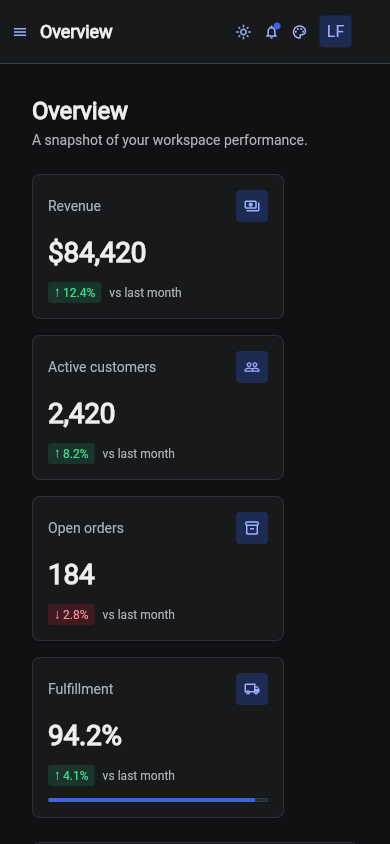
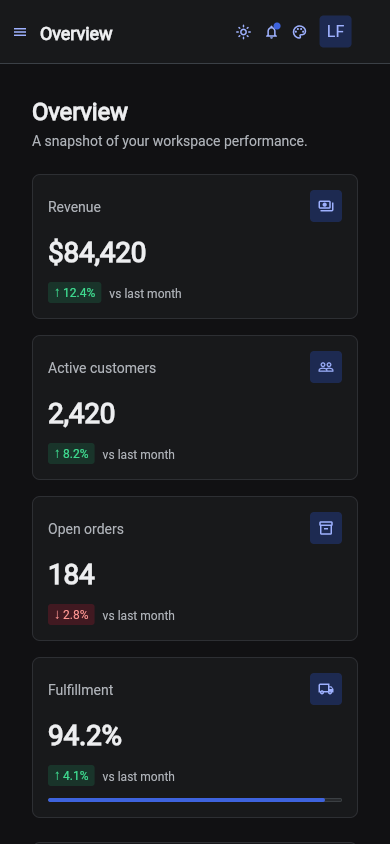
refactor(dashboard): correct the publish tag contract and drop unused indirection (#160)

diff --git a/apps/dashboard/lib/widgets/dashboard_chart_card.dart b/apps/dashboard/lib/widgets/dashboard_chart_card.dart
@@ -6,9 +6,9 @@ import 'page_header.dart';
 
 /// Dashboard surface shared by overview and gallery charts.
 ///
-/// Mix charts have no intrinsic height, so the plot is given a finite
-/// [plotHeight]. Auto Grid rows then size to the card (title + plot +
-/// optional legend) instead of a padded-card magic number.
+/// Mix charts have no intrinsic height, so the plot is given a finite one.
+/// Auto Grid rows then size to the card (title + plot + optional legend)
+/// instead of a padded-card magic number.
 class DashboardChartCard extends StatelessWidget {
   const DashboardChartCard({
     super.key,
@@ -18,8 +18,12 @@ class DashboardChartCard extends StatelessWidget {
     this.legend,
     this.chartPadding,
     this.chartPaddingKey,
-    this.plotHeight = 220,
   });
+
+  /// Logical plot height, scaled by the live Fortal scaling factor. A constant
+  /// rather than a parameter: every call site wants the same plot height, and
+  /// a per-card override would let rows in one Grid disagree.
+  static const _plotHeight = 220.0;
 
   final String title;
   final String description;
@@ -28,14 +32,11 @@ class DashboardChartCard extends StatelessWidget {
   final EdgeInsets? chartPadding;
   final Key? chartPaddingKey;
 
-  /// Logical plot height, scaled by the live Fortal scaling factor.
-  final double plotHeight;
-
   @override
   Widget build(BuildContext context) {
     final gap = MixScope.tokenOf(FortalTokens.space4, context);
     final defaultInset = MixScope.tokenOf(FortalTokens.space2, context);
-    final scaledPlot = plotHeight * FortalTheme.of(context).scaling.factor;
+    final scaledPlot = _plotHeight * FortalTheme.of(context).scaling.factor;
 
     return FortalCard(
       size: .size2,

diff --git a/apps/dashboard/lib/widgets/stat_card.dart b/apps/dashboard/lib/widgets/stat_card.dart
@@ -23,8 +23,10 @@ class StatCard extends StatelessWidget {
   @override
   Widget build(BuildContext context) {
     final positive = delta >= 0;
-    // Width comes from the parent Grid column. A tight stretch cell can
-    // be 1px shorter than the measure pass; keep the column loose then.
+    // Width comes from the parent Grid column; height comes from the row.
+    // `mainAxisSize: .min` matters only when the cell is unbounded — under a
+    // tight cell the Column fills it and the extra space falls below the
+    // content, which is what keeps sibling cards visually equal.
     final column = Column(
       mainAxisSize: .min,
       crossAxisAlignment: .stretch,
@@ -70,19 +72,6 @@ class StatCard extends StatelessWidget {
       ],
     );
 
-    return FortalCard(
-      size: .size2,
-      child: LayoutBuilder(
-        builder: (context, constraints) {
-          if (!constraints.hasBoundedHeight) return column;
-          return OverflowBox(
-            alignment: .topLeft,
-            minHeight: 0,
-            maxHeight: double.infinity,
-            child: column,
-          );
-        },
-      ),
-    );
+    return FortalCard(size: .size2, child: column);
   }
 }

diff --git a/apps/dashboard/lib/pages/settings_page.dart b/apps/dashboard/lib/pages/settings_page.dart
@@ -60,7 +60,6 @@ class _SettingsPageState extends State<SettingsPage> {
                           'Your personal details and communication preferences.',
                     ),
                     GridBox(
-                      key: const ValueKey('settings-profile-fields'),
                       style: profileFields,
                       children: [
                         FortalTextField(
@@ -125,7 +124,6 @@ class _SettingsPageState extends State<SettingsPage> {
                     Align(
                       alignment: .centerLeft,
                       child: FortalButton(
-                        key: const ValueKey('save-profile'),
                         onPressed: () => showToast(
                           context,
                           message: 'Profile settings saved',

diff --git a/apps/dashboard/test/dashboard_layout_test.dart b/apps/dashboard/test/dashboard_layout_test.dart
@@ -73,10 +73,6 @@ void main() {
         child: const FortalScope(child: MaterialApp(home: SettingsPage())),
       ),
     );
-    expect(
-      find.byKey(const ValueKey('settings-profile-fields')),
-      findsOneWidget,
-    );
     final wideName = field('Name');
     final wideEmail = field('Email');
     expect(wideEmail.top, closeTo(wideName.top, 0.5));
@@ -151,11 +147,6 @@ Future<List<Rect>> _pumpOverview(
     FortalScope(
       child: MaterialApp(home: OverviewPage(onViewOrders: () {})),
     ),
-  );
-  expect(find.byKey(const ValueKey('overview-metrics-grid')), findsOneWidget);
-  expect(
-    find.byKey(const ValueKey('overview-activity-orders-grid')),
-    findsOneWidget,
   );
   return [
     _cardAround(tester, find.text('Revenue')),

diff --git a/apps/dashboard/lib/pages/overview_page.dart b/apps/dashboard/lib/pages/overview_page.dart
@@ -48,7 +48,6 @@ class OverviewPage extends StatelessWidget {
             description: 'A snapshot of your workspace performance.',
           ),
           GridBox(
-            key: const ValueKey('overview-metrics-grid'),
             style: metricsStyle,
             children: const [
               StatCard(
@@ -80,7 +79,6 @@ class OverviewPage extends StatelessWidget {
           ),
           const AnalyticsCharts(),
           GridBox(
-            key: const ValueKey('overview-activity-orders-grid'),
             style: activityStyle,
             children: [
               const _ActivityCard(),
